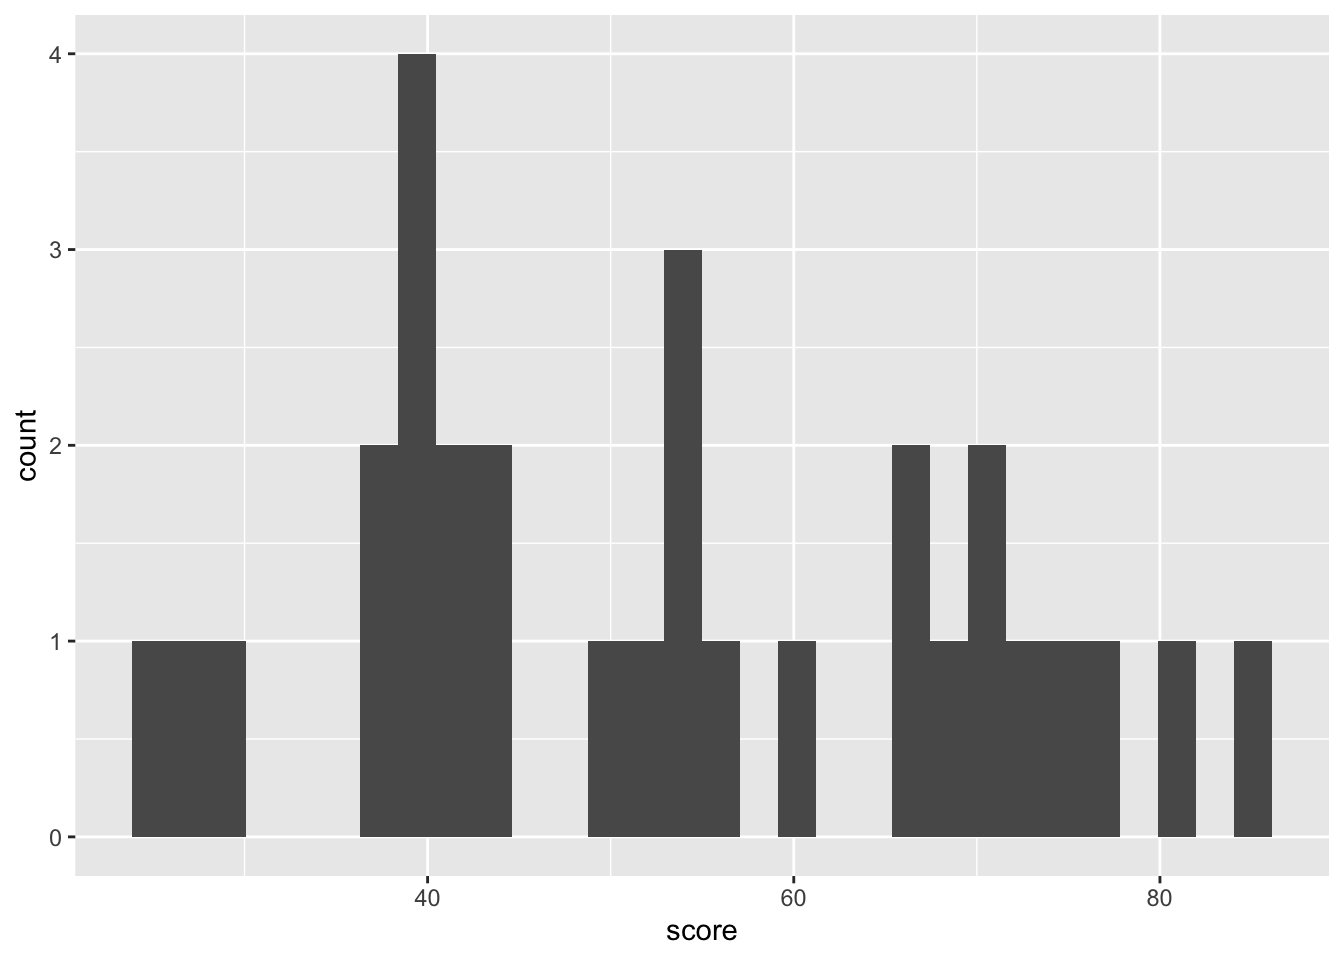
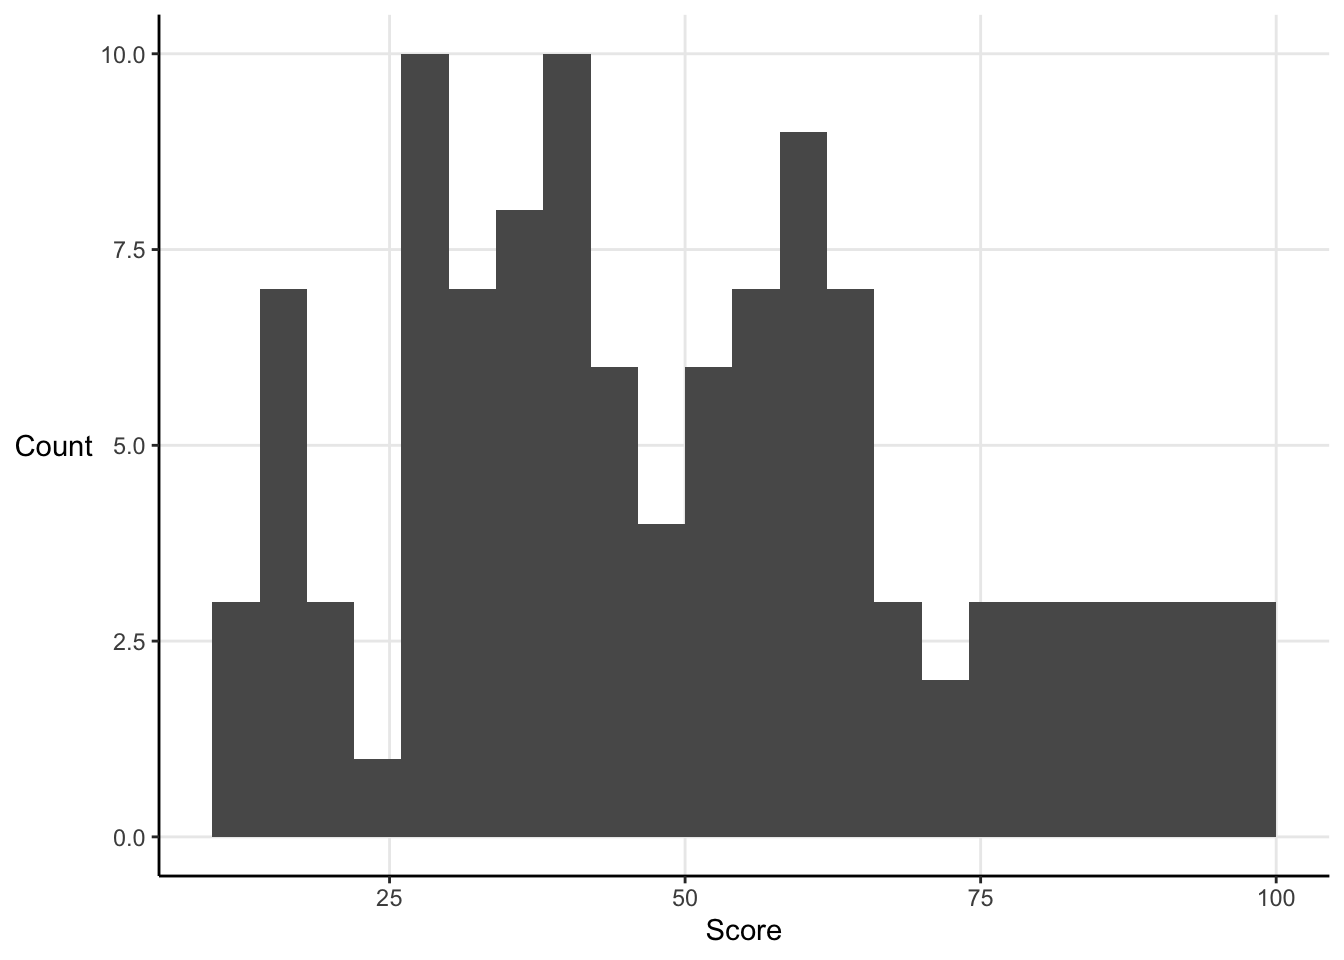
added histograms

diff --git a/content/summaries/lies_and_stats.html b/content/summaries/lies_and_stats.html
@@ -201,13 +201,25 @@ ggplot(quarterly_sales, aes(x = quarter, y = sales)) +
 <div id="amalgamating" class="section level3">
 <h3><span class="header-section-number">4.2.1</span> Amalgamating</h3>
 <p>The way data is grouped has an impact on the conclusions readers draw from it. One tactic to watch out for is when data has been binned into groups with unequal ranges.</p>
-<p>For instance, say your parents were on your case about your latest maths test and you were so committed to deceiving them that you whipped up a histogram that showed your score of 70 pretty favourably:</p>
+<p>For instance, say your parents were on your case about your latest maths test and you were so committed to deceiving them that you whipped up a histogram that showed your score of 75 pretty favourably:</p>
 <pre class="r"><code># Histogram with favourable grouping
 ggplot(maths_test, aes(x = score)) +
-  geom_histogram()</code></pre>
-<pre><code>## `stat_bin()` using `bins = 30`. Pick better value with `binwidth`.</code></pre>
+  geom_histogram(breaks = c(seq(10, 74, 4), 100)) +
+  scale_y_continuous(&quot;Count&quot;) +
+  scale_x_continuous(&quot;Score&quot;) +
+  theme_classic() +
+  theme(axis.title.y = element_text(angle = 0, vjust = 0.5),
+        panel.grid.major = element_line())</code></pre>
 <p><img src="/summaries/lies_and_stats_files/figure-html/favourable%20grouping-1.png" width="672" style="display: block; margin: auto;" /></p>
-<pre class="r"><code># Histogram with fair grouping</code></pre>
+<pre class="r"><code># Histogram with fair grouping
+ggplot(maths_test, aes(x = score)) +
+  geom_histogram(bins = 25) +
+  scale_y_continuous(&quot;Count&quot;) +
+  scale_x_continuous(&quot;Score&quot;) +
+  theme_classic() +
+  theme(axis.title.y = element_text(angle = 0, vjust = 0.5),
+        panel.grid.major = element_line())</code></pre>
+<p><img src="/summaries/lies_and_stats_files/figure-html/honest%20grouping-1.png" width="672" style="display: block; margin: auto;" /></p>
 </div>
 <div id="subdividing" class="section level3">
 <h3><span class="header-section-number">4.2.2</span> Subdividing</h3>

diff --git a/public/summaries/lies_and_stats/index.html b/public/summaries/lies_and_stats/index.html
@@ -296,13 +296,25 @@ ggplot(quarterly_sales, aes(x = quarter, y = sales)) +
 <div id="amalgamating" class="section level3">
 <h3><span class="header-section-number">4.2.1</span> Amalgamating</h3>
 <p>The way data is grouped has an impact on the conclusions readers draw from it. One tactic to watch out for is when data has been binned into groups with unequal ranges.</p>
-<p>For instance, say your parents were on your case about your latest maths test and you were so committed to deceiving them that you whipped up a histogram that showed your score of 70 pretty favourably:</p>
+<p>For instance, say your parents were on your case about your latest maths test and you were so committed to deceiving them that you whipped up a histogram that showed your score of 75 pretty favourably:</p>
 <pre class="r"><code># Histogram with favourable grouping
 ggplot(maths_test, aes(x = score)) +
-  geom_histogram()</code></pre>
-<pre><code>## `stat_bin()` using `bins = 30`. Pick better value with `binwidth`.</code></pre>
+  geom_histogram(breaks = c(seq(10, 74, 4), 100)) +
+  scale_y_continuous(&quot;Count&quot;) +
+  scale_x_continuous(&quot;Score&quot;) +
+  theme_classic() +
+  theme(axis.title.y = element_text(angle = 0, vjust = 0.5),
+        panel.grid.major = element_line())</code></pre>
 <p><img src="/summaries/lies_and_stats_files/figure-html/favourable%20grouping-1.png" width="672" style="display: block; margin: auto;" /></p>
-<pre class="r"><code># Histogram with fair grouping</code></pre>
+<pre class="r"><code># Histogram with fair grouping
+ggplot(maths_test, aes(x = score)) +
+  geom_histogram(bins = 25) +
+  scale_y_continuous(&quot;Count&quot;) +
+  scale_x_continuous(&quot;Score&quot;) +
+  theme_classic() +
+  theme(axis.title.y = element_text(angle = 0, vjust = 0.5),
+        panel.grid.major = element_line())</code></pre>
+<p><img src="/summaries/lies_and_stats_files/figure-html/honest%20grouping-1.png" width="672" style="display: block; margin: auto;" /></p>
 </div>
 <div id="subdividing" class="section level3">
 <h3><span class="header-section-number">4.2.2</span> Subdividing</h3>
